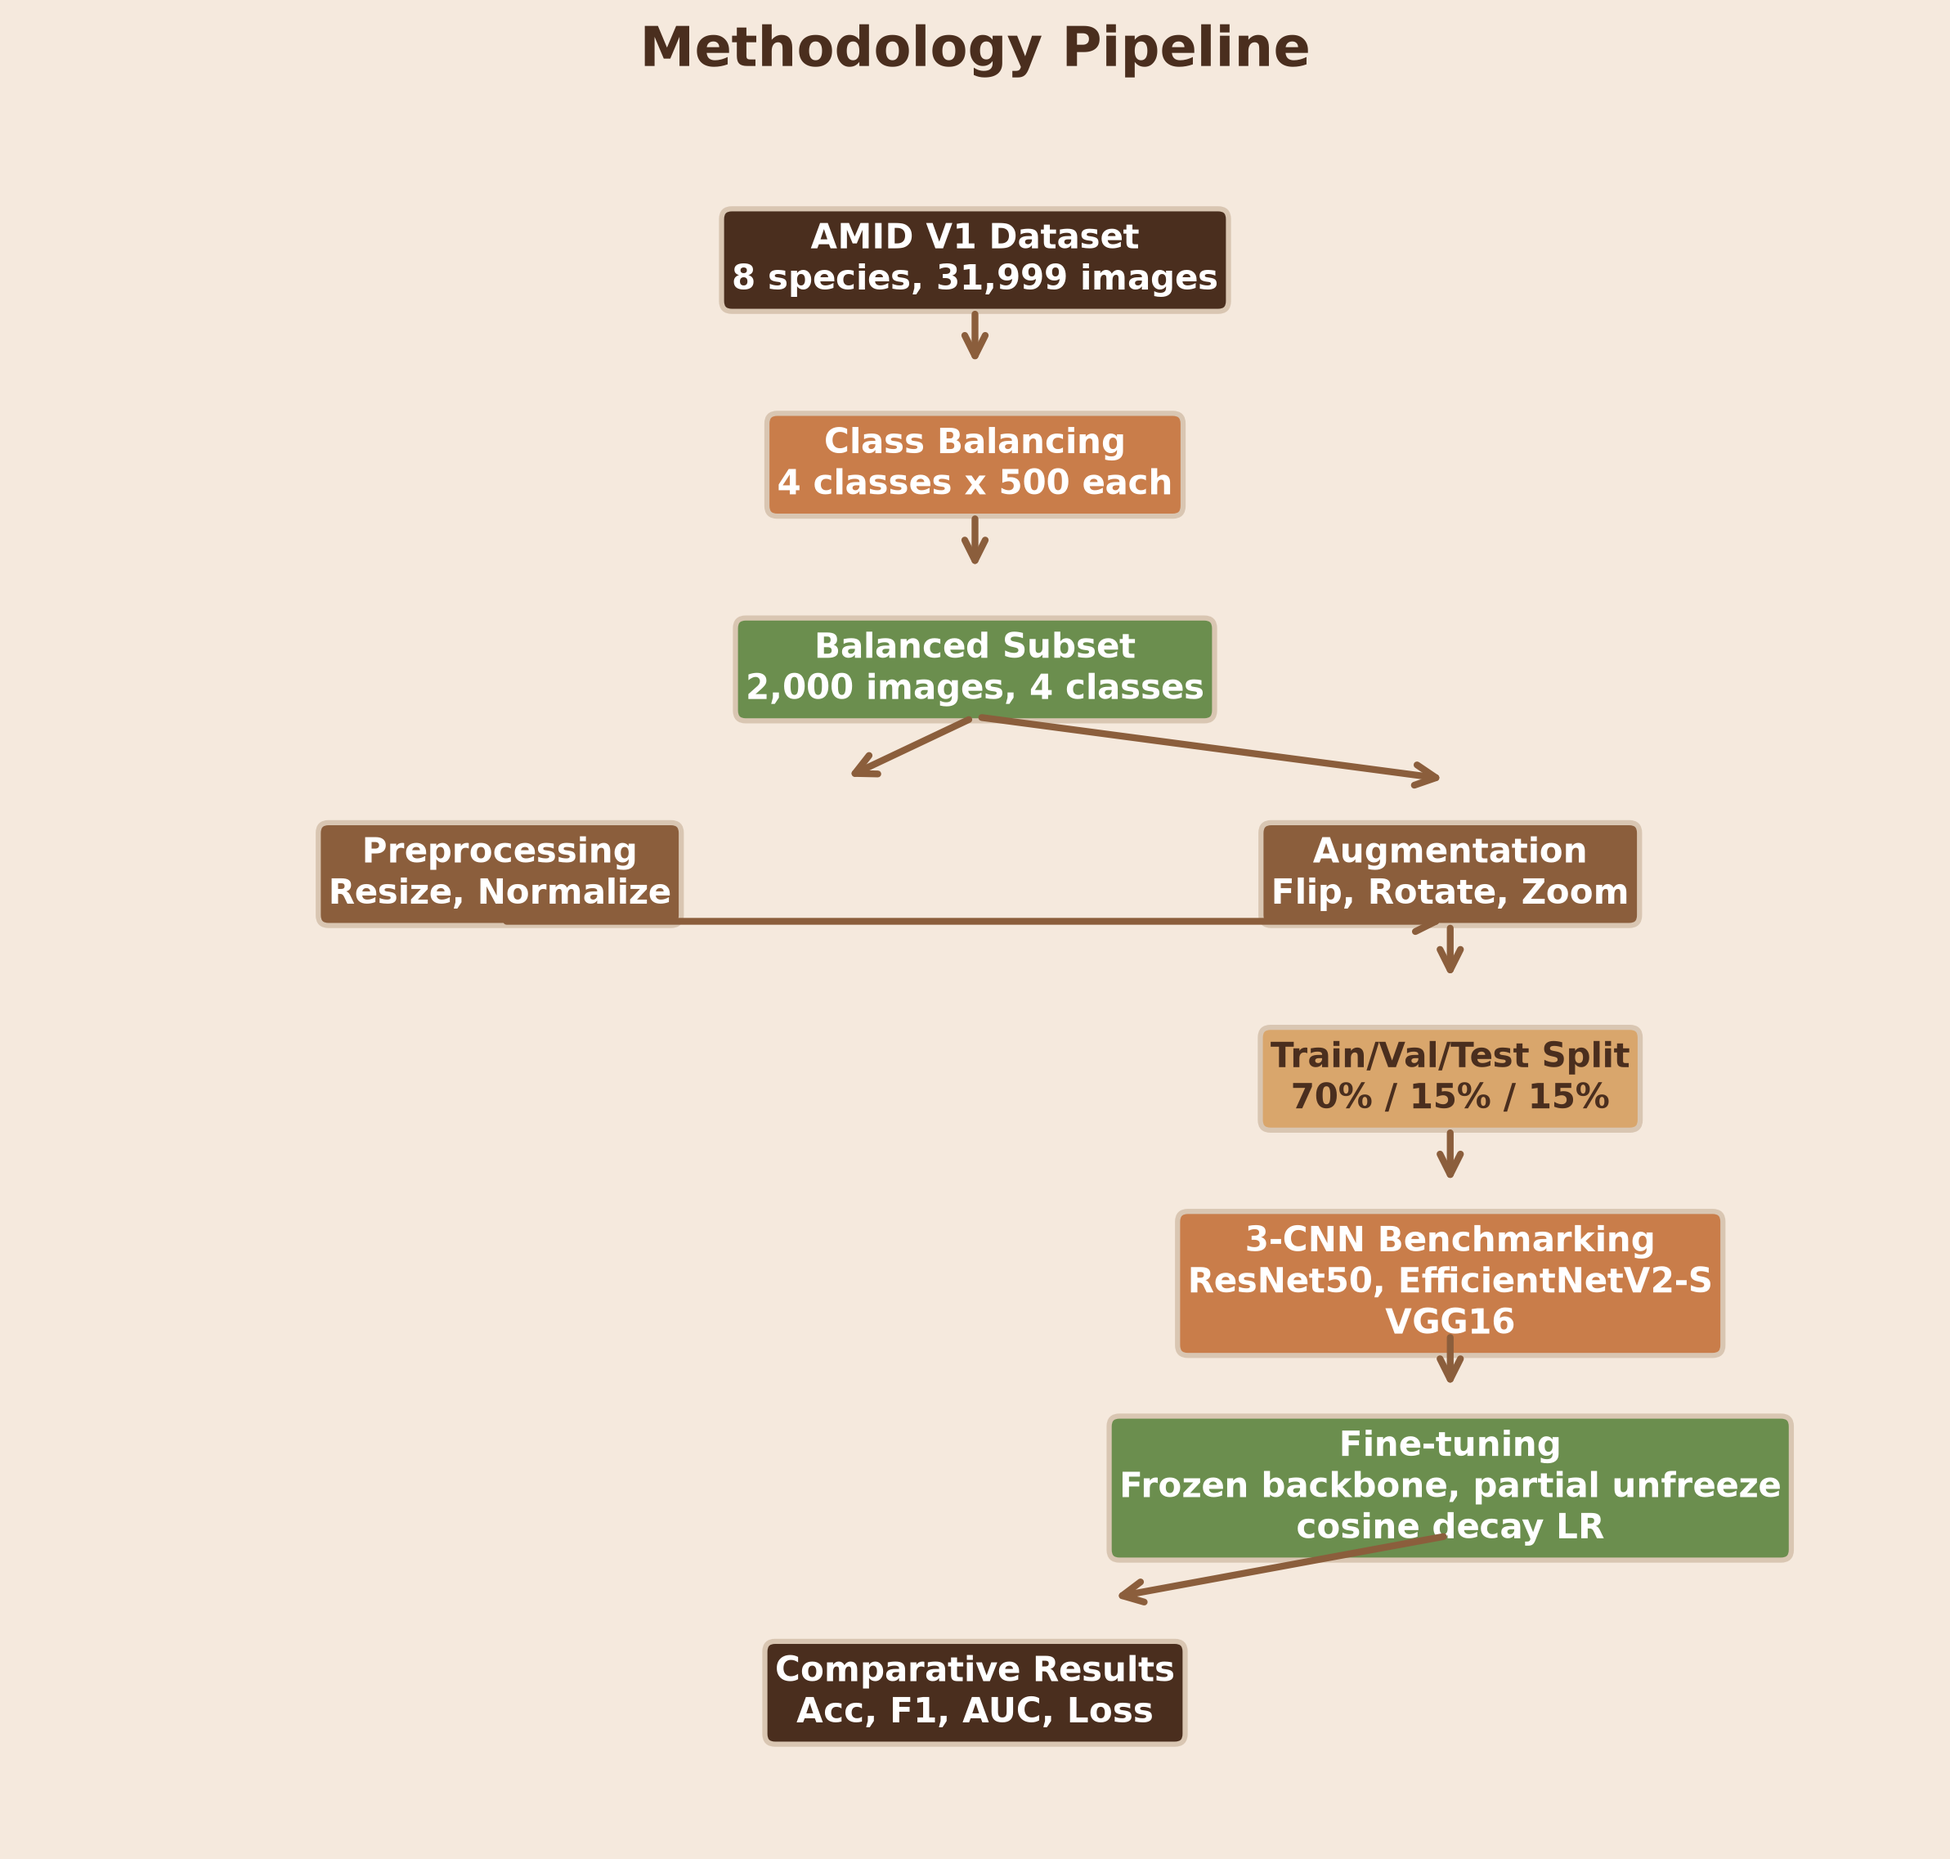
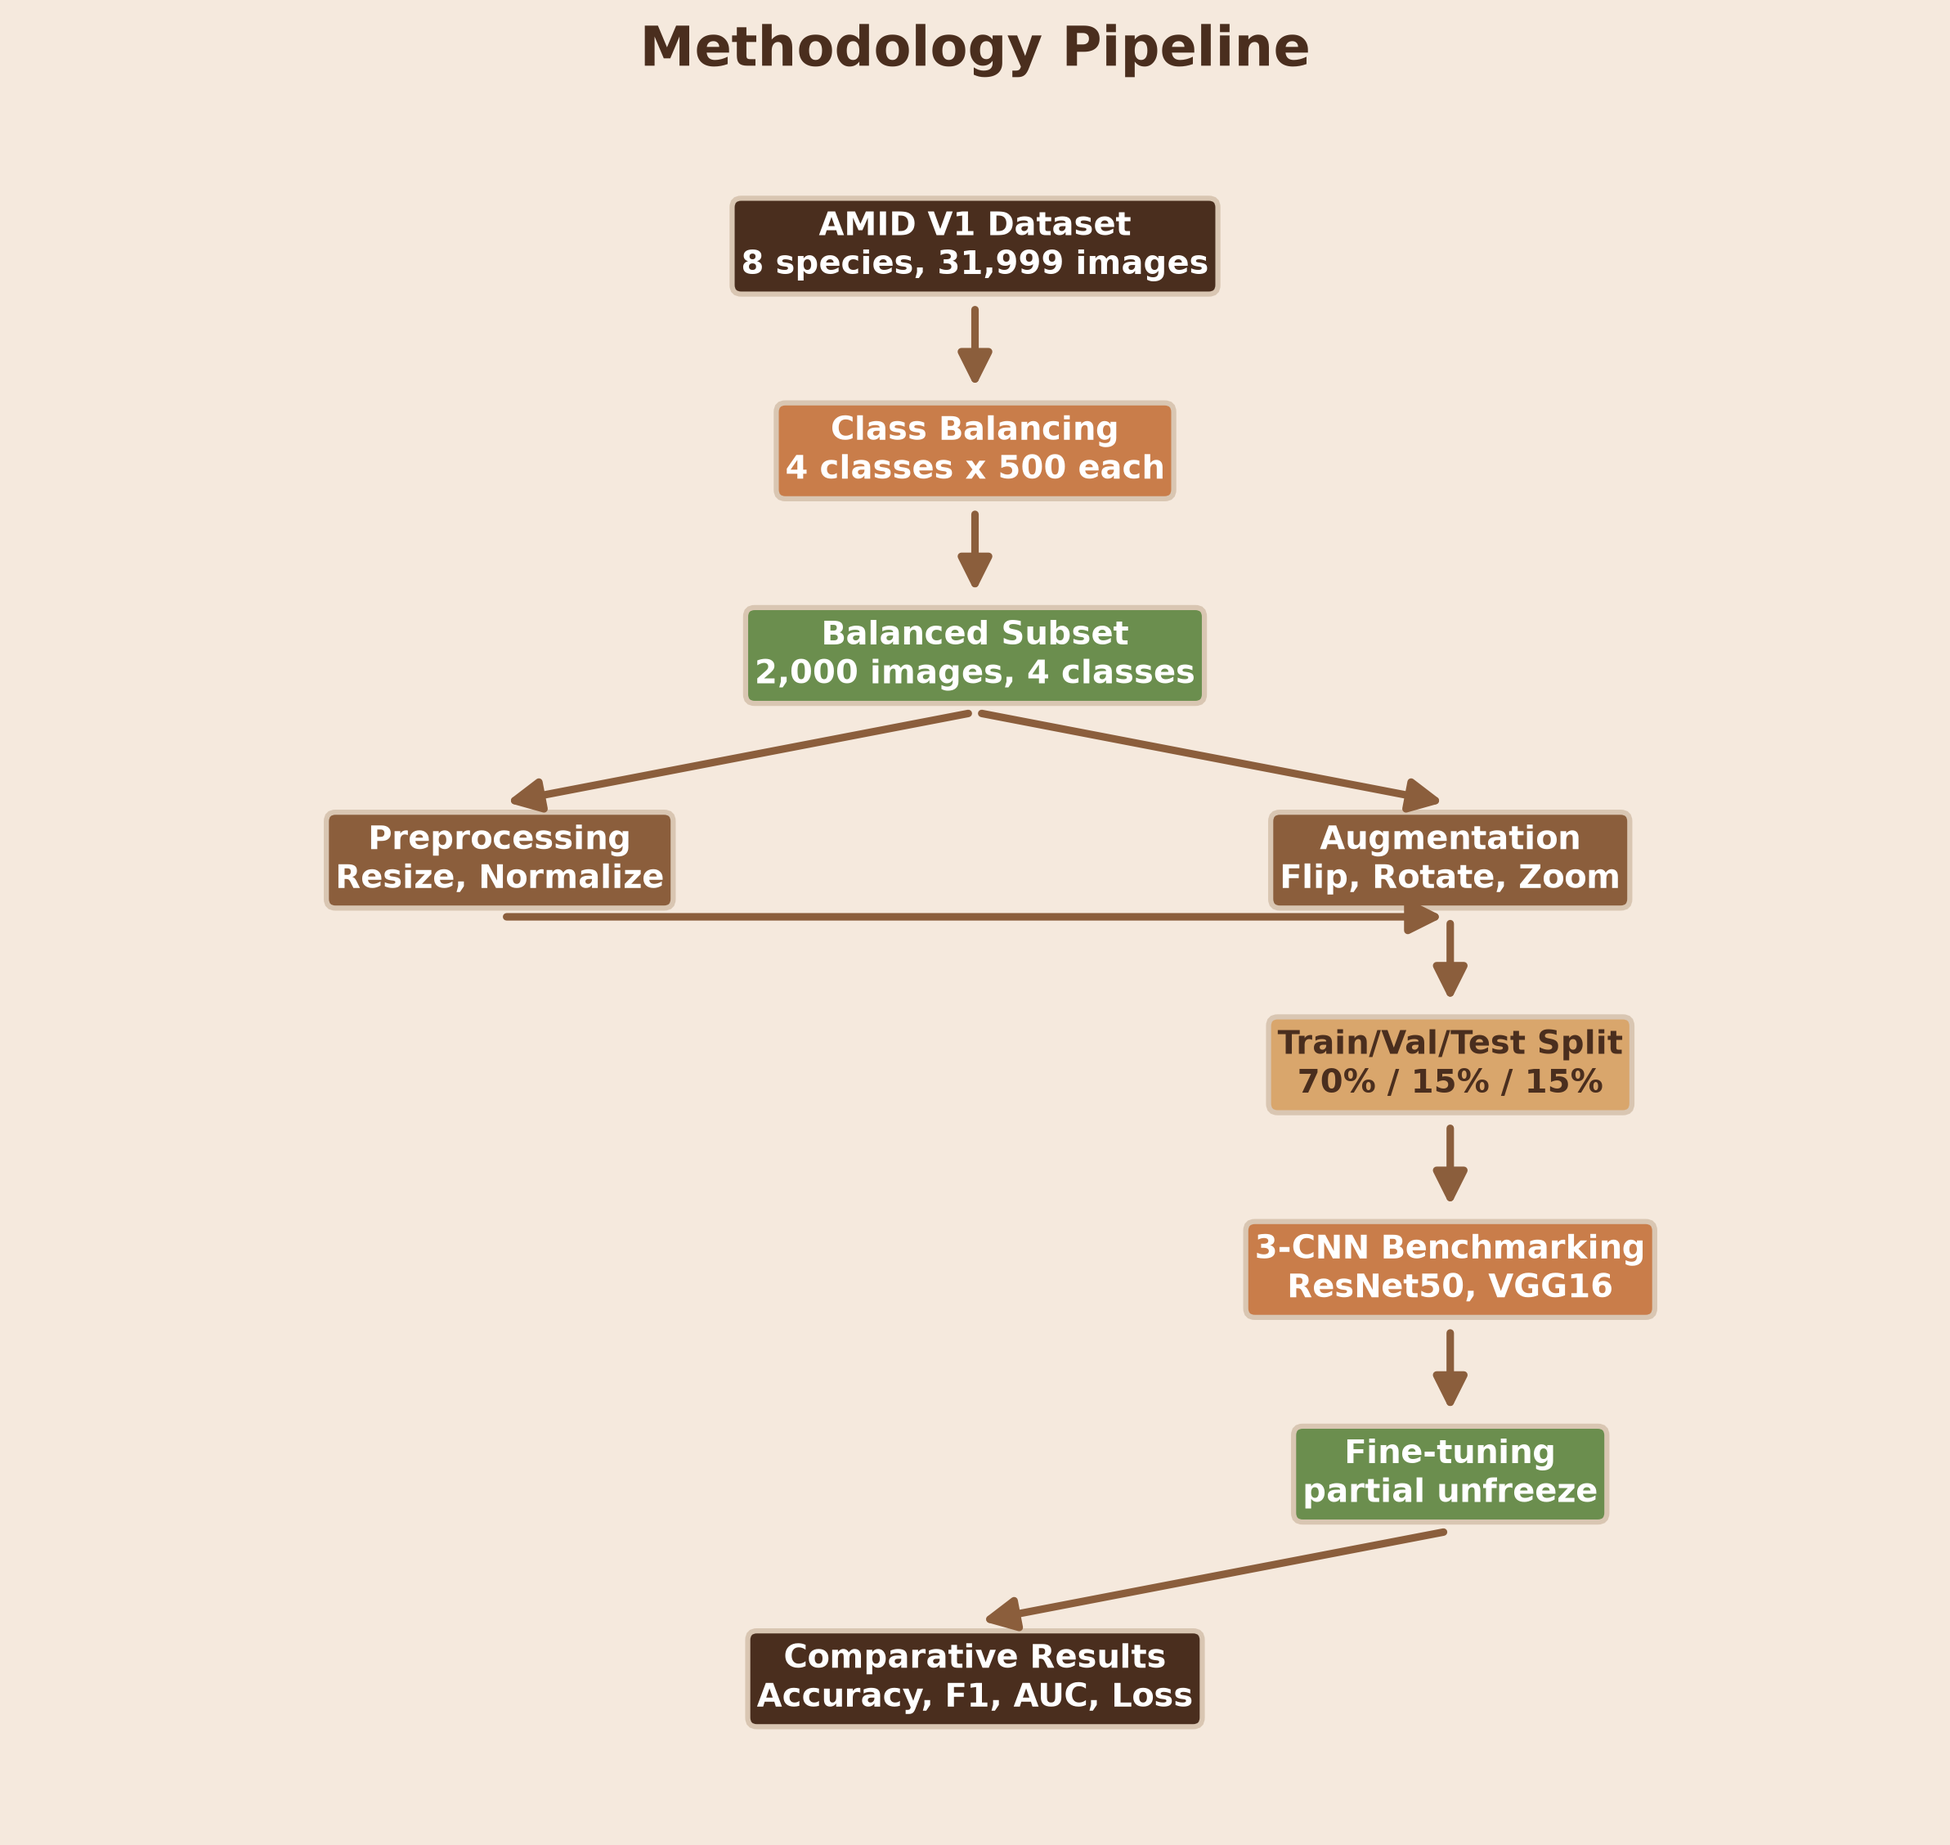
Fix distorted arrows in flowchart: clean edge-to-edge arrows with shrink

Changed region(s): [[0.1551, 0.0931, 0.9308, 0.9619]]

diff --git a/generate_figures.py b/generate_figures.py
@@ -164,37 +164,39 @@ ax.set_xlim(0, 10)
 ax.set_ylim(-1.4, 9.4)
 ax.axis("off")
 ax.set_facecolor("#F5E9DD")
-ax.set_title("Methodology Pipeline", fontsize=16, fontweight="bold", color="#4A2E1E", pad=20)
+ax.set_title("Methodology Pipeline", fontsize=16, fontweight="bold", color="#4A2E1E", pad=16)
 
+# Step boxes: (x, y_center, text, fill, text_color)
 steps = [
-    (5, 8.6, "AMID V1 Dataset\n8 species, 31,999 images", "#4A2E1E", "white"),
-    (5, 7.3, "Class Balancing\n4 classes x 500 each", "#C97D4A", "white"),
-    (5, 6.0, "Balanced Subset\n2,000 images, 4 classes", "#6B8E4E", "white"),
+    (5, 8.6,   "AMID V1 Dataset\n8 species, 31,999 images", "#4A2E1E", "white"),
+    (5, 7.3,   "Class Balancing\n4 classes x 500 each", "#C97D4A", "white"),
+    (5, 6.0,   "Balanced Subset\n2,000 images, 4 classes", "#6B8E4E", "white"),
     (2.5, 4.7, "Preprocessing\nResize, Normalize", "#8B5E3C", "white"),
     (7.5, 4.7, "Augmentation\nFlip, Rotate, Zoom", "#8B5E3C", "white"),
     (7.5, 3.4, "Train/Val/Test Split\n70% / 15% / 15%", "#D9A66C", "#4A2E1E"),
-    (7.5, 2.1, "3-CNN Benchmarking\nResNet50, EfficientNetV2-S\nVGG16", "#C97D4A", "white"),
-    (7.5, 0.8, "Fine-tuning\nFrozen backbone, partial unfreeze\ncosine decay LR", "#6B8E4E", "white"),
-    (5, -0.5, "Comparative Results\nAcc, F1, AUC, Loss", "#4A2E1E", "white"),
+    (7.5, 2.1, "3-CNN Benchmarking\nResNet50, VGG16", "#C97D4A", "white"),
+    (7.5, 0.8, "Fine-tuning\npartial unfreeze", "#6B8E4E", "white"),
+    (5, -0.5,  "Comparative Results\nAccuracy, F1, AUC, Loss", "#4A2E1E", "white"),
 ]
 
 for x, y, text, fc, tc in steps:
-    bbox = dict(boxstyle="round,pad=0.3", facecolor=fc, edgecolor="#D9C6B2", linewidth=1.5)
-    ax.text(x, y, text, ha="center", va="center", fontsize=10, fontweight="bold",
+    bbox = dict(boxstyle="round,pad=0.28", facecolor=fc, edgecolor="#D9C6B2", linewidth=1.5)
+    ax.text(x, y, text, ha="center", va="center", fontsize=9.5, fontweight="bold",
             color=tc, bbox=bbox)
 
-# Arrows
-arrow_kw = dict(arrowstyle="->", color="#8B5E3C", lw=2, mutation_scale=15)
+# Arrows drawn between boxes with shrink so they never overlap box edges
+arrow_kw = dict(arrowstyle="-|>", color="#8B5E3C", lw=2.2, mutation_scale=22,
+                shrinkA=12, shrinkB=12, connectionstyle="arc3,rad=0")
 conns = [
-    ((5, 8.3), (5, 7.9)),   # 1→2
-    ((5, 7.0), (5, 6.6)),   # 2→3
-    ((5, 5.7), (4.3, 5.3)),   # 3→4 (down-left)
-    ((5, 5.7), (7.5, 5.3)),   # 3→5 (down-right)
-    ((2.5, 4.4), (7.5, 4.4)), # 4→5 (horizontal)
-    ((7.5, 4.4), (7.5, 4.0)), # 5→6
-    ((7.5, 3.1), (7.5, 2.7)), # 6→7
-    ((7.5, 1.8), (7.5, 1.4)), # 7→8
-    ((7.5, 0.5), (5.7, 0.1)), # 8→9 (down to center)
+    ((5, 8.24), (5, 7.66)),       # 1→2
+    ((5, 6.94), (5, 6.36)),       # 2→3
+    ((5, 5.64), (2.5, 5.06)),     # 3→4 (down-left)
+    ((5, 5.64), (7.5, 5.06)),     # 3→5 (down-right)
+    ((2.5, 4.34), (7.5, 4.34)),   # 4→5 (horizontal)
+    ((7.5, 4.34), (7.5, 3.76)),   # 5→6
+    ((7.5, 3.04), (7.5, 2.46)),   # 6→7
+    ((7.5, 1.74), (7.5, 1.16)),   # 7→8
+    ((7.5, 0.44), (5, -0.14)),    # 8→9 (down to center)
 ]
 for (x1, y1), (x2, y2) in conns:
     ax.annotate("", xy=(x2, y2), xytext=(x1, y1), arrowprops=arrow_kw)
